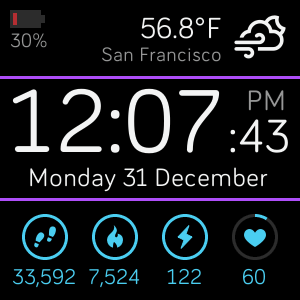
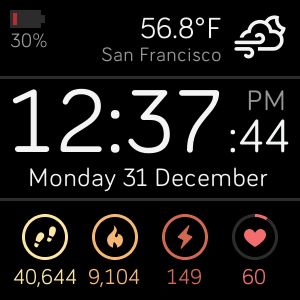
Update colors available

diff --git a/settings/index.jsx b/settings/index.jsx
@@ -1,29 +1,38 @@
 const color_set = [
-  { color: "#FFFFFF" },
+  { color: "#f5f5f5" },
   { color: "#A0A0A0" },
   { color: "#505050" },
   { color: "#303030" },
+  { color: "#2d3436" },
   { color: "#000000" },
 
-  { color: "#E4FA3C" },
-  { color: "#FFCC33" },
-  { color: "#FC6B3A" },
-  { color: "#F83C40" },
-  { color: "#F80070" },
-  { color: "#F83478" },
-  { color: "#A51E7C" },
-  { color: "#D828B8" },
-  { color: "#BD4EFC" },
-  { color: "#5B4CFF" },
-  { color: "#8080FF" },
-  { color: "#7090B5" },
-  { color: "#BCD8F8" },
-  { color: "#3182DE" },
-  { color: "#14D3F5" },
-  { color: "#3BF7DE" },
-  { color: "#00A629" },
-  { color: "#5BE37D" },
-  { color: "#B8FC68" },
+  { color: "#badc58" },
+  { color: "#55efc4" },
+  { color: "#81ecec" },
+  { color: "#7ed6df" },
+  { color: "#74b9ff" },
+  { color: "#a29bfe" },
+
+  { color: "#6ab04c" },
+  { color: "#00b894" },
+  { color: "#00cec9" },
+  { color: "#22a6b3" },
+  { color: "#0984e3" },
+  { color: "#6c5ce7" },
+
+  { color: "#30336b" },
+  { color: "#ffeaa7" },
+  { color: "#ffbe76" },
+  { color: "#fab1a0" },
+  { color: "#ff7675" },
+  { color: "#fd79a8" },
+
+  { color: "#130f40" },
+  { color: "#fdcb6e" },
+  { color: "#f0932b" },
+  { color: "#e17055" },
+  { color: "#d63031" },
+  { color: "#e84393" },
 ];
 
 const options = [
